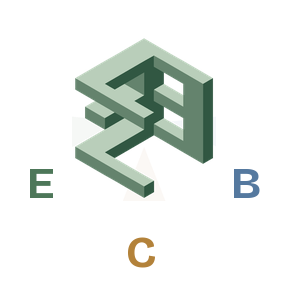
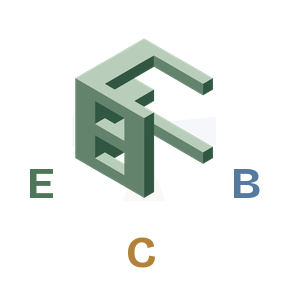
Render physically cast letter shadows and keep headline on one line

Changed region(s): [[0.25, 0.3125, 0.5625, 0.6562], [0.4375, 0.2188, 0.75, 0.5312]]

diff --git a/index.html b/index.html
@@ -2,7 +2,7 @@
 <a class="skip-link" href="#explore">식당 찾기로 바로 가기</a>
 <header class="site-header"><div class="header-inner"><a class="brand" href="#"><img src="assets/perspective-mark.png" width="37" height="37" alt=""><span>한 끼의 조건</span></a><span class="brand-tag">같은 식당, 다른 시선</span><nav><a href="#explore">식당 찾기</a><a href="#data-story">자료 이야기 <span>↗</span></a></nav></div></header>
 <main>
-<section class="hero shell"><div class="hero-copy"><p class="eyebrow"><span></span> 관점을 바꾸면, 발견이 달라집니다</p><h1>같은 식당,<br><em>다른 시선.</em></h1><p class="lead">가격으로 보고, 위생으로 보고, 전통으로 봅니다.<br>여러 관점을 모으면,<br class="desktop-break"> 한 식당이 더 풍부하게 보입니다.</p><a class="hero-action" href="#explore">내 한 끼 찾아보기 <span>↓</span></a></div><div class="hero-art" aria-label="하나의 입체도형이 방향마다 다른 글자 그림자를 만드는 개념 그림"><img src="assets/perspectives.png" width="720" height="480" alt="같은 입체도형에서 서로 다른 방향으로 E, B, C 그림자가 펼쳐지는 관점의 비유"><p>하나의 형태, 서로 다른 그림자.<br>식당도 바라보는 관점마다 다른 특징이 드러납니다.</p></div></section>
+<section class="hero shell"><div class="hero-copy"><p class="eyebrow"><span></span> 관점을 바꾸면, 발견이 달라집니다</p><h1>같은 식당, <em>다른 시선.</em></h1><p class="lead">가격으로 보고, 위생으로 보고, 전통으로 봅니다.<br>여러 관점을 모으면,<br class="desktop-break"> 한 식당이 더 풍부하게 보입니다.</p><a class="hero-action" href="#explore">내 한 끼 찾아보기 <span>↓</span></a></div><div class="hero-art" aria-label="하나의 입체도형이 방향마다 다른 글자 그림자를 만드는 개념 그림"><img src="assets/perspectives-real.png" width="720" height="480" alt="하나의 입체도형에 세 방향에서 빛을 비춰 벽에는 E와 B, 바닥에는 C 그림자가 생기는 실제 투영 렌더링"><p>하나의 입체, 세 방향의 실제 그림자.<br>식당도 바라보는 관점마다 다른 특징이 드러납니다.</p></div></section>
 <div class="data-strip"><div class="shell"><p><strong id="stat-restaurants">—</strong> 식당 기록</p><i></i><p><strong id="stat-sources">—</strong> 자료를 연결</p><span>전국에서 찾고, 내 동네에서 골라보세요.</span><small id="snapshot-date">자료를 준비하고 있어요</small></div></div>
 <section id="explore" class="explore shell" aria-label="식당 찾기">
 <aside class="filters"><form id="filters"><div class="filter-title"><div><span class="eyebrow">내 한 끼 고르기</span><h2>어떤 관점으로 볼까요?</h2></div><button type="reset" class="reset-button">초기화 ↺</button></div><div class="region-fields"><label>시·도<select id="sido" disabled><option value="">전국</option></select></label><label>시·군·구<select id="sigungu" disabled><option value="">전체</option></select></label></div><label class="search-label" for="search">식당 이름·동네</label><div class="search-wrap"><span aria-hidden="true">⌕</span><input id="search" type="search" placeholder="이름이나 주소로 검색" maxlength="80" autocomplete="off" disabled></div>

diff --git a/style.css b/style.css
@@ -11,3 +11,7 @@
 .hero{grid-template-columns:1fr 1.12fr;padding-top:38px;padding-bottom:32px;gap:40px}.hero h1{font-size:clamp(48px,4.9vw,74px);line-height:1.15;letter-spacing:-.06em;margin:17px 0 22px}.hero-art{max-width:620px;padding-top:0}.hero-art>p{font-size:12px;line-height:1.65;margin-top:-3px;color:#778073}.hero .lead{font-size:17px;line-height:1.8}.hero-action{margin-top:22px}.brand img{object-fit:contain}.story-heading>p:last-child{line-height:1.85}
 @media(max-width:1000px){.hero{gap:20px;padding-inline:0}.hero h1{font-size:54px}.hero .lead{font-size:15px}}
 @media(max-width:760px){.hero{grid-template-columns:1fr;gap:20px;padding-block:30px}.hero h1{font-size:52px}.hero-art{max-width:480px}.hero-art>p{font-size:11px}}
+
+/* One-line title and physically traced projection artwork. */
+.hero{grid-template-columns:1.3fr 1fr;gap:32px}.hero h1{font-size:clamp(26px,4.1vw,60px);white-space:nowrap;line-height:1.2}.hero-art img{border-radius:12px}.hero-art>p{margin-top:9px}
+@media(max-width:760px){.hero{grid-template-columns:1fr;gap:22px}.hero h1{font-size:clamp(26px,6.7vw,48px)}}

diff --git a/DESIGN.md b/DESIGN.md
@@ -14,3 +14,5 @@
 canvas-design의 ‘다면 시선’ 철학으로 원본 PNG 그래픽을 제작했다. 한 입체형과 E/B/C 문자 그림자의 비유이며, 식당 등급을 의미하지 않는다. 조형은 투영 퍼즐을 연상시키는 독창적인 절삭 형태로 그렸고 기존 특정 조각 작품을 복제하지 않았다. 투명 PNG로 색 바탕 위의 사각 경계를 없애고, 큰 제목과 그래픽의 비중을 맞췄다. 1440×1100 실제 HTML 시안 캡처 후 형태에 여백을 낸 정제본을 같은 화면에서 비교했다. 관련 파일은 assets/perspectives.png, perspective-mark.png이며 기존 SVG는 보존했다.
 
 최종 입체는 임의의 큐브에 글자를 붙인 그림에서 한 번 더 다듬었다. E/B/C 블록 글자의 세 직교 투영을 만족하는 교집합 볼륨을 만들고 원근 없이 등각 투영으로 렌더링했다. 각 축의 실제 실루엣이 해당 문자와 일치함을 렌더러에서 확인한다. PNG의 세 문자 그림자는 이 실루엣을 사용한다. 캔버스 철학과 시안·최종 비교는 review/one-meal/perspective-design에 보관했다.
+
+사용자 지적 이후 실제 투영 렌더로 교체했다. 분리한 글자 실루엣 대신 동일 3D 솔리드에 세 방향의 면광원을 두고 ray/box 교차로 실제 차폐를 계산했다. 벽 두 면에는 E/B, 바닥에는 C 그림자가 생기며 PNG에 글자를 덧그리지 않는다. 수학적 투영 마스크와 실제 렌더가 같은 지오메트리를 사용한다. 제목은 줄바꿈 없이 ‘같은 식당, 다른 시선.’으로 표시하고 화면 폭에 따라 글자 크기를 조정한다. 실제 렌더 자산은 assets/perspectives-real.png, 검증은 review/one-meal/perspective-design/shadow-geometry.json이다.
